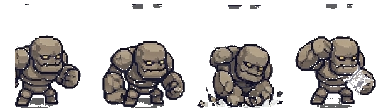
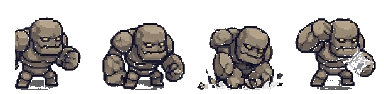
prototype: enemy/wall polish — frost tint, golem fixes, breach gap, burst waves
- Frozen enemies now tint fully blue (ctx.filter) with frost shards instead of a
  flat blue disc.
- Golem sheet had stray debris pixels above each frame — cropped out; golems
  render clean (and a touch bigger).
- Stone golems shrug off arrows (take 35% from arrow projectiles via hitEnemy).
- Wall now visibly breaches & deconstructs: a jagged gap is punched through with a
  rubble pile + settling dust when wallHP hits 0.
- New chaos mode ALL-OUT ASSAULT (and ENDLESS HORDE) compress spawn gaps so
  enemies sometimes pour in all at once.

diff --git a/prototype/index.html b/prototype/index.html
@@ -272,7 +272,8 @@ const WAVE_MODS = [
   { key:'fireproof', label:'FIREPROOF',  color:'#ff9c3f', immune:['burn'] },
   { key:'frostward', label:'FROST-WARD', color:'#7fe0ff', immune:['slow','stun'] },
   { key:'frenzy',    label:'FRENZY',     color:'#c9a2e8', spd:1.45 },
-  { key:'horde',     label:'ENDLESS HORDE', color:'#9ad36a', count:2.1, hp:0.5, gold:0.7 },
+  { key:'horde',     label:'ENDLESS HORDE', color:'#9ad36a', count:2.1, hp:0.5, gold:0.7, gap:0.5 },
+  { key:'blitz',     label:'ALL-OUT ASSAULT', color:'#ff5e4d', count:1.4, hp:0.8, gap:0.12 },  // they pour in all at once
 ];
 function rollWaveMod(w){ return (w < 2 || Math.random() < 0.42) ? { key:'none' } : WAVE_MODS[Math.floor(Math.random()*WAVE_MODS.length)]; }
 let grid, hand, gold, wave, wallHP, wallMax;
@@ -567,7 +568,7 @@ function buildWave(w){
   if (runMode === 'boss') return bossRushWave(w, hpS);
   const m = waveMod || { key:'none' };
   const count = Math.max(1, Math.round((wc.baseCount + Math.floor(w*wc.perWave)) * (m.count||1)));
-  const gap = Math.max(wc.gapMin, wc.gapBase - w*wc.gapPerWave);
+  const gap = Math.max(wc.gapMin, wc.gapBase - w*wc.gapPerWave) * (m.gap||1);   // chaos can compress the assault
   let t = 0.8;
   for (let i=0;i<count;i++){
     let kind = 'grunt';
@@ -917,6 +918,7 @@ function wallGuards(dt){
   }
 }
 function hitEnemy(e, dmg, slow, fx){
+  if (e.kind === 'golem' && fx && fx.kind === 'arrow') dmg *= 0.35;   // stone hide shrugs off arrows
   e.hp -= dmg; e.hitT = 0.1;
   if (slow) applyBuff(e, 'slow', slow);
   if (fx){
@@ -1182,6 +1184,24 @@ function drawWall(){
       const x = FIELD_L + 30 + ((i*137)%(ww-70));
       ctx.beginPath(); ctx.moveTo(x, WALL_Y+5); ctx.lineTo(x+5, WALL_Y+15); ctx.lineTo(x-3, WALL_Y+27); ctx.stroke();
     }
+  }
+  // BREACHED: a whole section is blown open — jagged gap + rubble pile + settling dust
+  if (breached){
+    const gx2 = (wl+wr)/2, gw = 104;
+    ctx.save();
+    ctx.fillStyle = '#0c111c';   // dark hole punched clean through the wall
+    ctx.beginPath();
+    ctx.moveTo(gx2-gw/2, WALL_Y-30); ctx.lineTo(gx2-gw/2+12, WALL_Y-6); ctx.lineTo(gx2-gw/2+5, WALL_Y+29);
+    ctx.lineTo(gx2+gw/2-7, WALL_Y+29); ctx.lineTo(gx2+gw/2-13, WALL_Y-4); ctx.lineTo(gx2+gw/2, WALL_Y-30);
+    ctx.closePath(); ctx.fill();
+    // jagged stone teeth at the break
+    opoly([[gx2-gw/2,WALL_Y-30],[gx2-gw/2+15,WALL_Y-30],[gx2-gw/2+6,WALL_Y-6]], STONE, INKW, 2);
+    opoly([[gx2+gw/2,WALL_Y-30],[gx2+gw/2-15,WALL_Y-30],[gx2+gw/2-6,WALL_Y-6]], STONE, INKW, 2);
+    // rubble spilling into the courtyard
+    for (let i=0;i<9;i++){ const rx = gx2-gw/2+6+i*12, ry = WALL_Y+22+Math.sin(i*1.9)*5;
+      ocirc(rx, ry, 4+(i%3)*2.4, i%2 ? STONE_L : STONE, INKW, 2); }
+    ctx.restore();
+    if (Math.random() < 0.22) puff(gx2+(Math.random()-0.5)*gw, WALL_Y+4, '#8a93a8');
   }
 }
 function drawGrid(){
@@ -1788,17 +1808,18 @@ function drawEnemy(e){
   ctx.fillStyle = 'rgba(20,50,30,0.25)';
   ctx.beginPath(); ctx.ellipse(e.x, e.y + r*0.95, r*0.85, 4.5, 0, 0, 7); ctx.fill();
 
+  const frosty = hasBuff(e,'slow');
   ctx.save();
   ctx.translate(e.x, y);
   if (e.spawnT > 0){ const k = 1 - e.spawnT/0.4; ctx.scale(k, k); }   // grow in from the treeline
   if (e.hitT > 0){ const k = 1 + e.hitT*0.9; ctx.scale(k, 2-k); } // squash-pop on hit
+  if (frosty) ctx.filter = 'sepia(1) hue-rotate(165deg) saturate(2.6) brightness(0.92)';   // frozen-blue tint on the whole unit
   ((typeof ENEMY_DRAW !== 'undefined' && ENEMY_DRAW[e.kind]) || drawDarkKnight)(r, step, e);
+  if (frosty) ctx.filter = 'none';
   ctx.restore();
 
-  // status-effect overlays
-  if (hasBuff(e,'slow')){
-    ctx.fillStyle = 'rgba(150,205,255,0.35)';
-    ctx.beginPath(); ctx.ellipse(e.x, y-r*0.2, r*1.05, r*1.2, 0, 0, 7); ctx.fill();
+  // a couple of frost shards instead of a flat blue disc
+  if (frosty){
     crystal(e.x-r*0.7, y-r*0.9, 5, false);
     crystal(e.x+r*0.7, y-r*0.5, 4, false);
   }
@@ -2995,7 +3016,7 @@ function drawBombardier(r, step, e){
 function drawGolem(r, step, e){
   // stone golem — generated sheet, 4 walk frames
   const f = Math.floor(time*6 + (e.wob||0)*5) % 4;
-  spr('golem', 96, 112, f, 0, 0, e.r*0.95, 1.15*r/24, e.face < 0, 0.95);
+  spr('golem', 96, 94, f, 0, 0, e.r*0.95, 1.36*r/24, e.face < 0, 0.95);
 }
 const ENEMY_DRAW = { grunt:drawGoblin, runner:drawScout, brute:drawOgre,
                      raider:drawRaider, sapper:drawSapper, boss:drawDarkKnight,